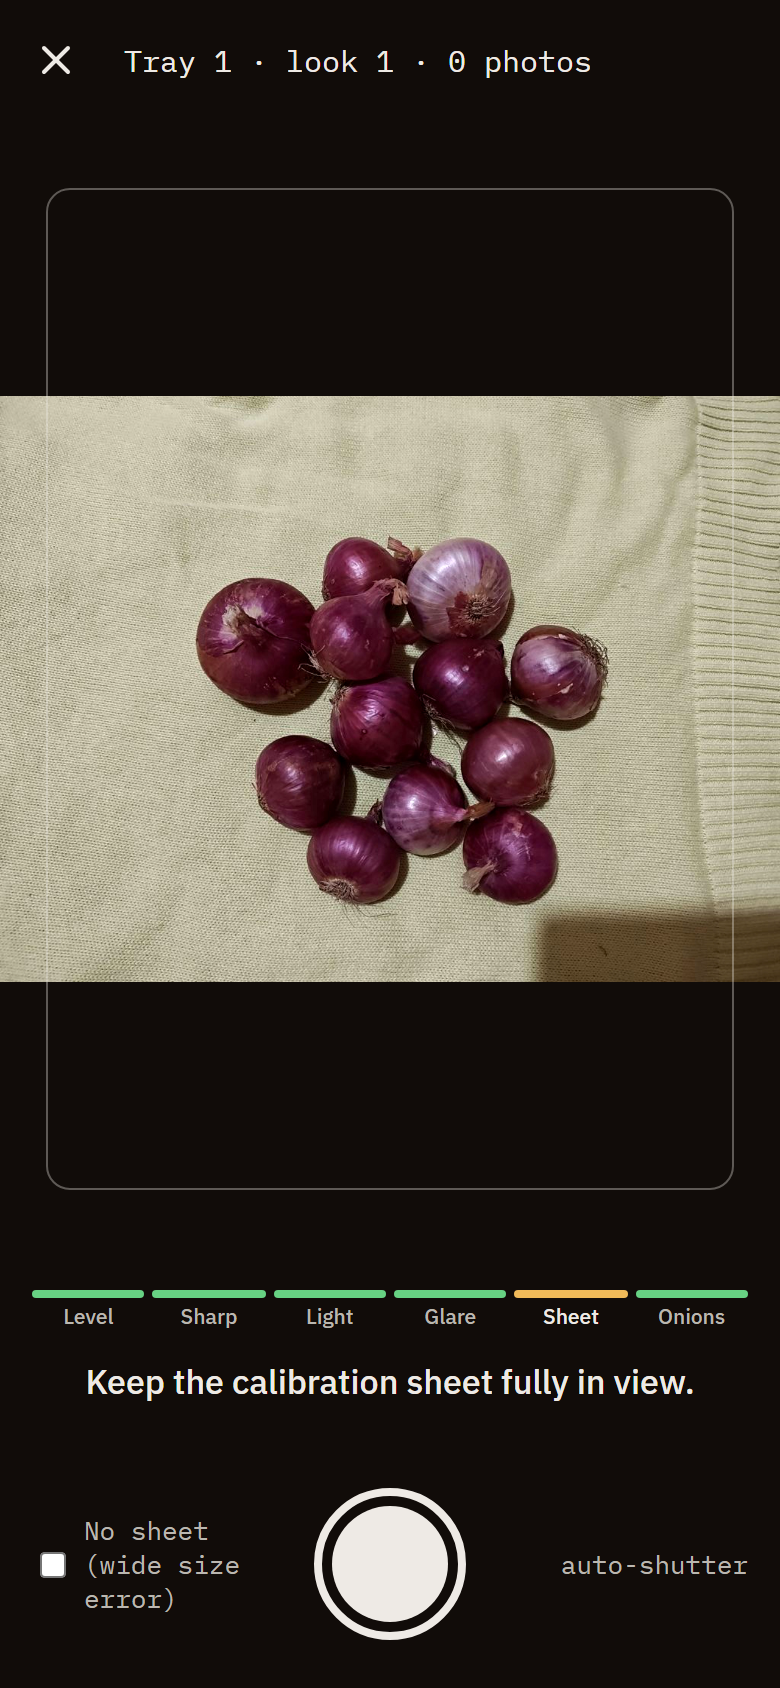
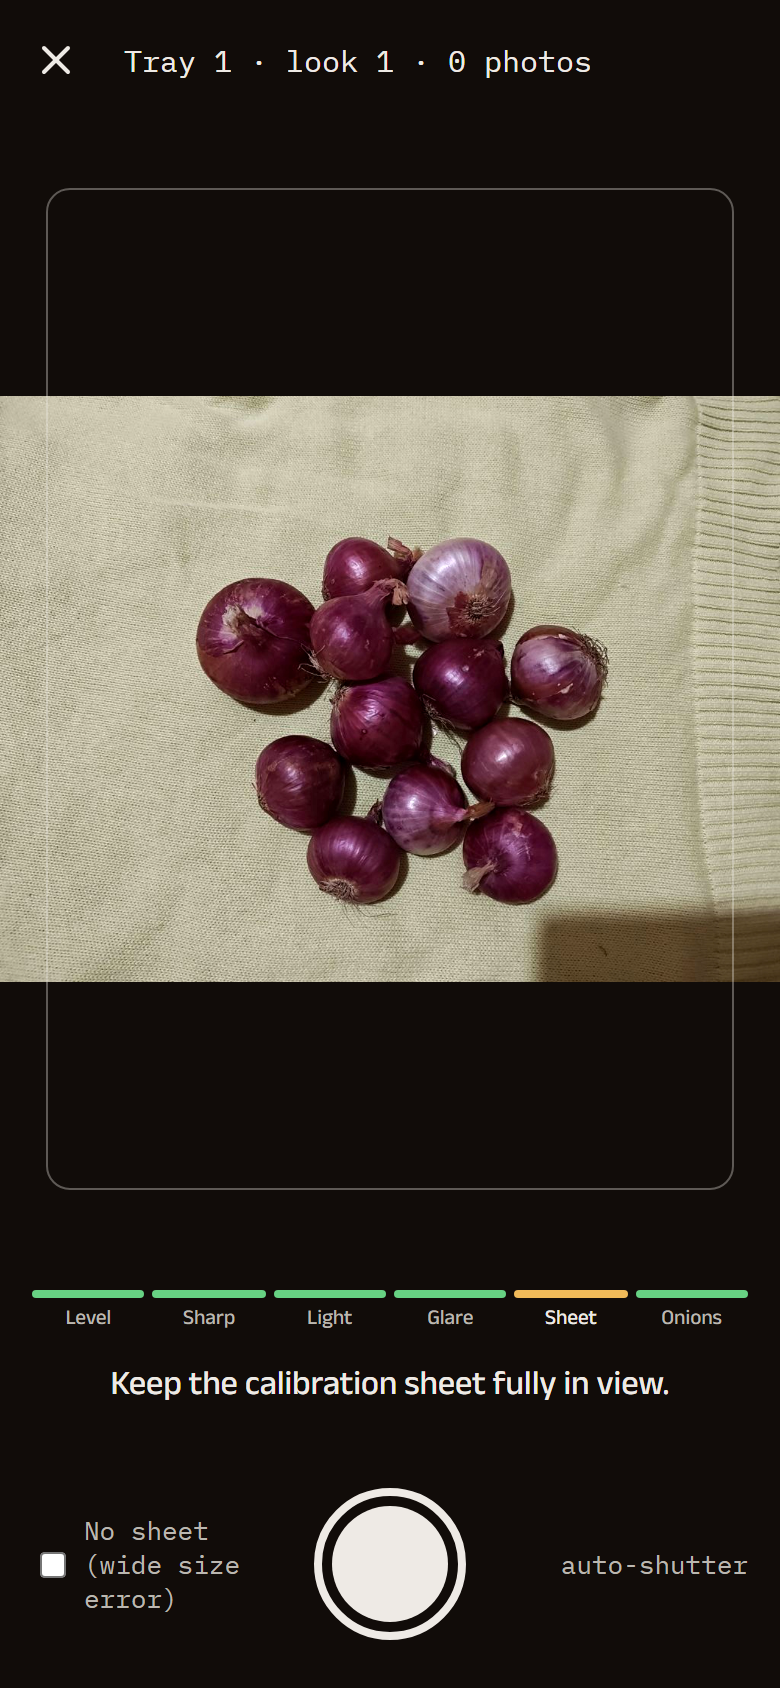
Type system: Anek superfamily across Latin + 8 Indic scripts, Plex Mono for data; SAMA wordmark; landing body in Anek Latin; e2e waits for splash; design rationale in DECISIONS #21

Changed region(s): [[0.0923, 0.7701, 0.9231, 0.8318]]

diff --git a/apps/web/src/styles/tokens.css b/apps/web/src/styles/tokens.css
@@ -1,7 +1,11 @@
 /* Hallmark · app · genre: editorial/utilitarian · theme: custom "red onion + receipt"
  * vibe: "red onion skin, golden dry tunic, government receipt"
  * paper oklch(96.5% 0.011 75) · brand oklch(35% 0.115 355) red-onion · gold oklch(78% 0.13 75) dry skin
- * display: IBM Plex Sans Condensed · body: IBM Plex Sans · data: IBM Plex Mono
+ * type: Anek superfamily (Ek Type, OFL) for Latin + all 8 Indic scripts, one design so Hindi, Tamil,
+ *   Bangla etc. share x-height and rhythm with English; display = Anek at 87.5% width, 640 weight.
+ *   data: IBM Plex Mono, tabular figures, the receipt voice.
+ * palette rationale: brand = Nashik red-onion skin, gold = dry outer scale, paper = warm oat (less glare
+ *   outdoors than white). Grade colours sit away from brand hues and always carry a letter.
  * axes: light / grotesk-sans (condensed display) / warm red-violet brand
  */
 :root {
@@ -48,8 +52,8 @@
   --color-ok: oklch(78% 0.15 150);
   --color-wait: oklch(82% 0.13 80);
 
-  --font-display: 'IBM Plex Sans Condensed', 'Noto Sans Devanagari', 'Noto Sans Tamil', 'Noto Sans Telugu', 'Noto Sans Kannada', 'Noto Sans Gujarati', 'Noto Sans Bengali', 'Noto Sans Gurmukhi', system-ui, sans-serif;
-  --font-body: 'IBM Plex Sans', 'Noto Sans Devanagari', 'Noto Sans Tamil', 'Noto Sans Telugu', 'Noto Sans Kannada', 'Noto Sans Gujarati', 'Noto Sans Bengali', 'Noto Sans Gurmukhi', system-ui, sans-serif;
+  --font-display: 'Anek Latin Variable', 'Anek Devanagari Variable', 'Anek Bangla Variable', 'Anek Gujarati Variable', 'Anek Gurmukhi Variable', 'Anek Kannada Variable', 'Anek Tamil Variable', 'Anek Telugu Variable', system-ui, sans-serif;
+  --font-body: 'Anek Latin Variable', 'Anek Devanagari Variable', 'Anek Bangla Variable', 'Anek Gujarati Variable', 'Anek Gurmukhi Variable', 'Anek Kannada Variable', 'Anek Tamil Variable', 'Anek Telugu Variable', system-ui, sans-serif;
   --font-mono: 'IBM Plex Mono', ui-monospace, monospace;
 
   --text-xs: 0.8125rem;

diff --git a/apps/web/src/styles/app.css b/apps/web/src/styles/app.css
@@ -11,7 +11,7 @@ body {
   -webkit-font-smoothing: antialiased;
   -webkit-tap-highlight-color: transparent;
 }
-h1, h2, h3, h4 { font-family: var(--font-display); font-weight: 600; font-style: normal; line-height: 1.1; margin: 0; letter-spacing: -0.01em; overflow-wrap: anywhere; min-width: 0; }
+h1, h2, h3, h4 { font-family: var(--font-display); font-stretch: 87.5%; font-weight: 640; font-style: normal; line-height: 1.1; margin: 0; letter-spacing: -0.01em; overflow-wrap: anywhere; min-width: 0; }
 h1 { font-size: var(--text-2xl); }
 h2 { font-size: var(--text-xl); }
 h3 { font-size: var(--text-lg); }
@@ -38,7 +38,7 @@ img, svg, canvas, video { display: block; max-width: 100%; }
 }
 .topbar .grow { flex: 1; min-width: 0; }
 .topbar h1 { font-size: var(--text-lg); white-space: nowrap; overflow: hidden; text-overflow: ellipsis; }
-.wordmark { display: inline-flex; align-items: baseline; gap: 6px; font: 600 1.375rem/1 var(--font-display); letter-spacing: -0.02em; text-decoration: none; }
+.wordmark { display: inline-flex; align-items: baseline; gap: 6px; font: 600 1.375rem/1 var(--font-display); letter-spacing: 0.22em; text-decoration: none; }
 .wordmark i { width: 10px; height: 10px; background: var(--color-accent); display: inline-block; transform: translateY(-1px); }
 .iconbtn {
   width: 44px; height: 44px; margin-left: -10px; display: inline-grid; place-items: center;

diff --git a/apps/web/src/main.tsx b/apps/web/src/main.tsx
@@ -1,18 +1,14 @@
 import { render } from 'preact';
-import '@fontsource/ibm-plex-sans/400.css';
-import '@fontsource/ibm-plex-sans/500.css';
-import '@fontsource/ibm-plex-sans/600.css';
-import '@fontsource/ibm-plex-sans-condensed/600.css';
+import '@fontsource-variable/anek-latin/wdth.css';
+import '@fontsource-variable/anek-devanagari/wdth.css';
+import '@fontsource-variable/anek-bangla/wdth.css';
+import '@fontsource-variable/anek-gujarati/wdth.css';
+import '@fontsource-variable/anek-gurmukhi/wdth.css';
+import '@fontsource-variable/anek-kannada/wdth.css';
+import '@fontsource-variable/anek-tamil/wdth.css';
+import '@fontsource-variable/anek-telugu/wdth.css';
 import '@fontsource/ibm-plex-mono/400.css';
 import '@fontsource/ibm-plex-mono/600.css';
-import '@fontsource/noto-sans-devanagari/400.css';
-import '@fontsource/noto-sans-devanagari/600.css';
-import '@fontsource/noto-sans-tamil/400.css';
-import '@fontsource/noto-sans-telugu/400.css';
-import '@fontsource/noto-sans-kannada/400.css';
-import '@fontsource/noto-sans-gujarati/400.css';
-import '@fontsource/noto-sans-bengali/400.css';
-import '@fontsource/noto-sans-gurmukhi/400.css';
 import './styles/app.css';
 import './styles/shell.css';
 import { App } from './App';

diff --git a/apps/web/src/components/ui.tsx b/apps/web/src/components/ui.tsx
@@ -45,7 +45,7 @@ export function TopBar({ title, backTo, right, subtitle }: { title?: string; bac
     return (
       <header class="topbar root">
         <div class="grow">
-          {title ? <h1 class="root-title">{title}</h1> : <a class="wordmark" href="#/"><i />sama</a>}
+          {title ? <h1 class="root-title">{title}</h1> : <a class="wordmark" href="#/"><i />SAMA</a>}
           {subtitle && <p class="root-sub">{subtitle}</p>}
         </div>
         {right}

diff --git a/apps/web/src/styles/shell.css b/apps/web/src/styles/shell.css
@@ -8,7 +8,7 @@
 .topbar.root { min-height: 68px; border-bottom: 0; background: var(--color-paper); }
 .root-title { font: 600 1.75rem/1.1 var(--font-display); letter-spacing: -0.02em; }
 .root-sub { font-size: var(--text-xs); color: var(--color-muted); margin-top: 2px; }
-.wordmark { font-size: 1.6rem; }
+.wordmark { font-size: 1.3rem; align-items: center; }
 .wordmark i { width: 12px; height: 12px; }
 
 /* bottom tab bar */

diff --git a/apps/landing/src/main.tsx b/apps/landing/src/main.tsx
@@ -1,9 +1,6 @@
 import '@fontsource/instrument-serif/400.css';
 import '@fontsource/instrument-serif/400-italic.css';
-import '@fontsource/barlow/300.css';
-import '@fontsource/barlow/400.css';
-import '@fontsource/barlow/500.css';
-import '@fontsource/barlow/600.css';
+import '@fontsource-variable/anek-latin/wdth.css';
 import './styles.css';
 import { createRoot } from 'react-dom/client';
 import { App } from './App';

diff --git a/apps/web/src/screens/Home.tsx b/apps/web/src/screens/Home.tsx
@@ -37,7 +37,7 @@ export function Home() {
     <>
       <header class="homebanner">
         <div class="hb-top">
-          <span class="wordmark light"><img src="./icon.svg" alt="" width="30" height="30" />sama</span>
+          <span class="wordmark light"><img src="./icon.svg" alt="" width="30" height="30" />SAMA</span>
           <OnlineChip />
         </div>
         <section class="hello">

diff --git a/apps/landing/src/styles.css b/apps/landing/src/styles.css
@@ -2,7 +2,7 @@
 
 @theme {
   --font-heading: "Instrument Serif", serif;
-  --font-body: "Barlow", sans-serif;
+  --font-body: "Anek Latin Variable", system-ui, sans-serif;
   --color-onion: #6e1f47;
   --color-onion-deep: #3a0f25;
   --color-gold: #e6ae45;

diff --git a/docs/DECISIONS.md b/docs/DECISIONS.md
@@ -25,3 +25,18 @@ The team asked for no questions during the 8-hour run, so each judgement call is
 ## 20. Landing page at the site root, web app at /app/
 
 The landing (apps/landing, React + three.js + framer-motion) is served from the Pages root and the web app moves to `./app/`. The live demo runs the shipped seg.onnx through ONNX Runtime Web in the visitor's browser. WebLLM was not used: SAMA needs no language model, and the vision models already run on the device. A kill-switch `sw.js` at the root retires the service worker from when the app lived there. The APK is published as `sama.apk` on the latest release, so the landing link stays stable.
+
+## 21. Type and colour system
+
+Type: the Anek superfamily (Ek Type, OFL) replaces IBM Plex Sans with Noto fallbacks. Anek is one design for Latin and all eight Indic scripts the app ships (Devanagari, Bangla, Gujarati, Gurmukhi, Kannada, Tamil, Telugu), so a Hindi or Tamil screen keeps the same x-height, weight and rhythm as the English one. Headings use its width axis at 87.5% so long labels fit on a 360 px phone. IBM Plex Mono stays for lot IDs and numbers, because it has tabular figures and reads like a receipt. The landing page pairs Instrument Serif display (from the brief) with Anek Latin body.
+
+Colour: every hue comes from the product. The brand is red-onion skin (oklch 35% 0.115 355), the highlight is the dry golden outer scale, and the paper is a warm oat tone, which glares less than white in sunlight. Grade colours are kept apart from the brand hues: A is green, URS is amber, Reject is tomato red, Refer is slate. Each grade also carries its letter, so none relies on colour alone. The measured WCAG contrast ratios are:
+
+| Pair | Contrast |
+|---|---|
+| Body ink on paper | 16:1 |
+| Secondary text | 8:1 |
+| Every grade's text on its tint | 4.9:1 or higher |
+| URS text (darker ink) | 6.5:1 |
+
+We looked at the ui-ux-pro-max database, which suggested the generic navy-and-blue "government" palette, and rejected it because it carries no product meaning.
